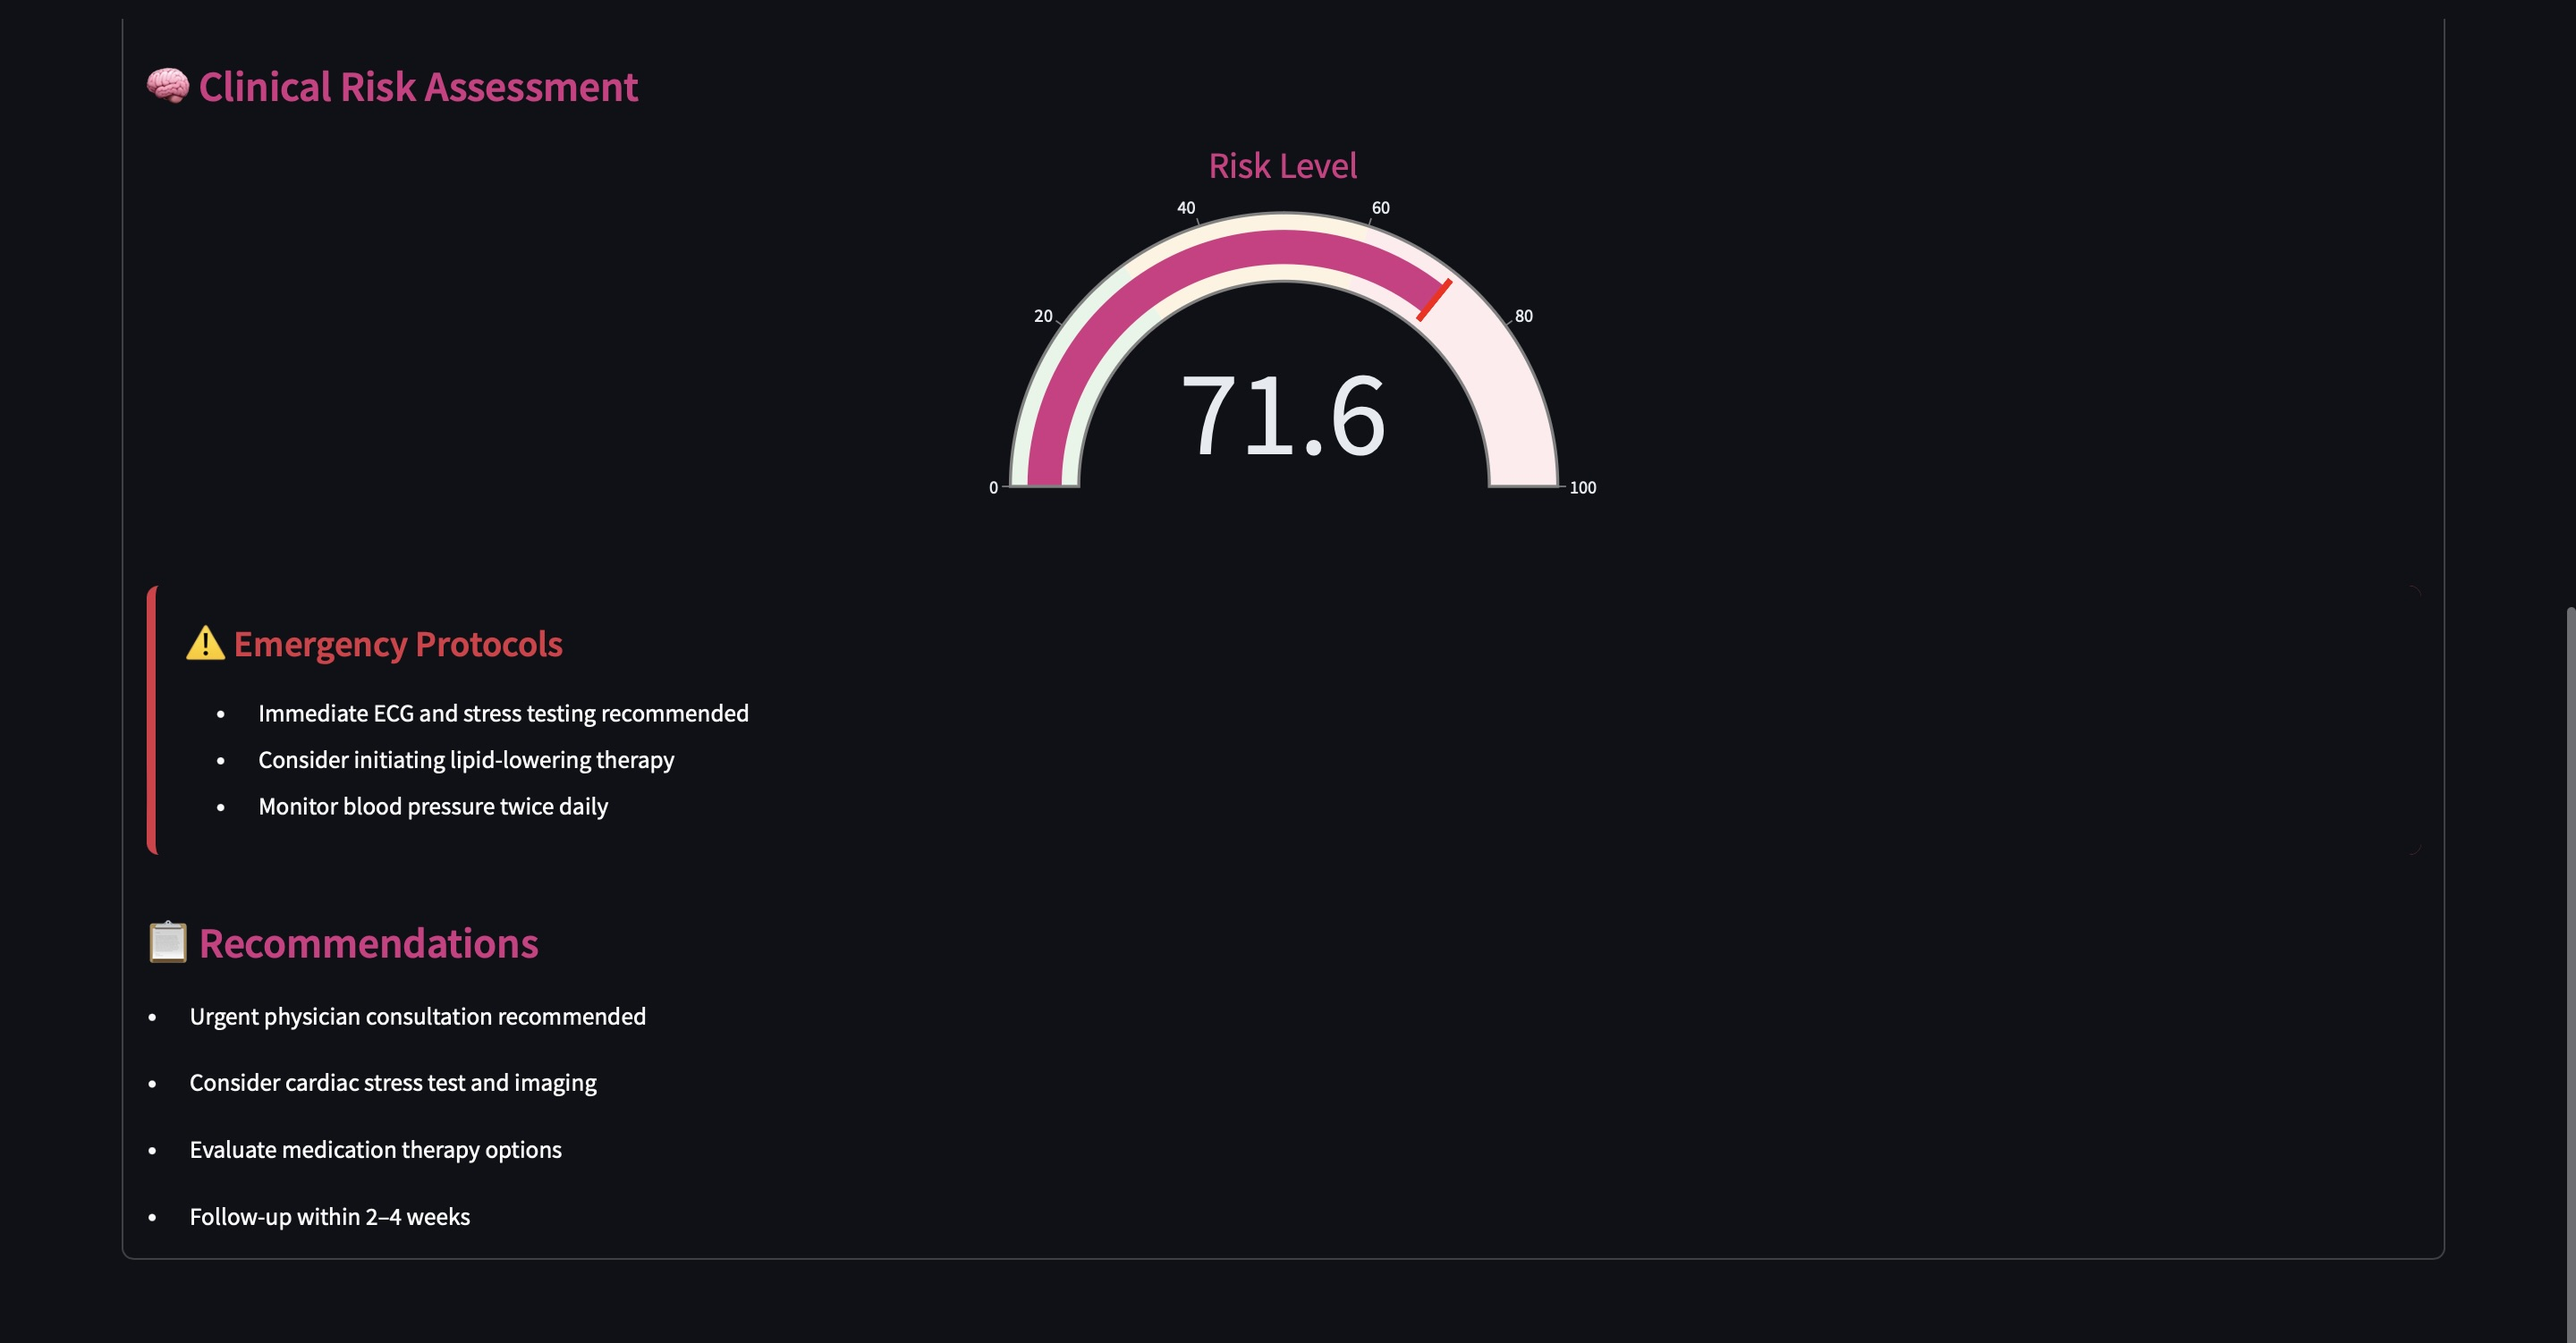
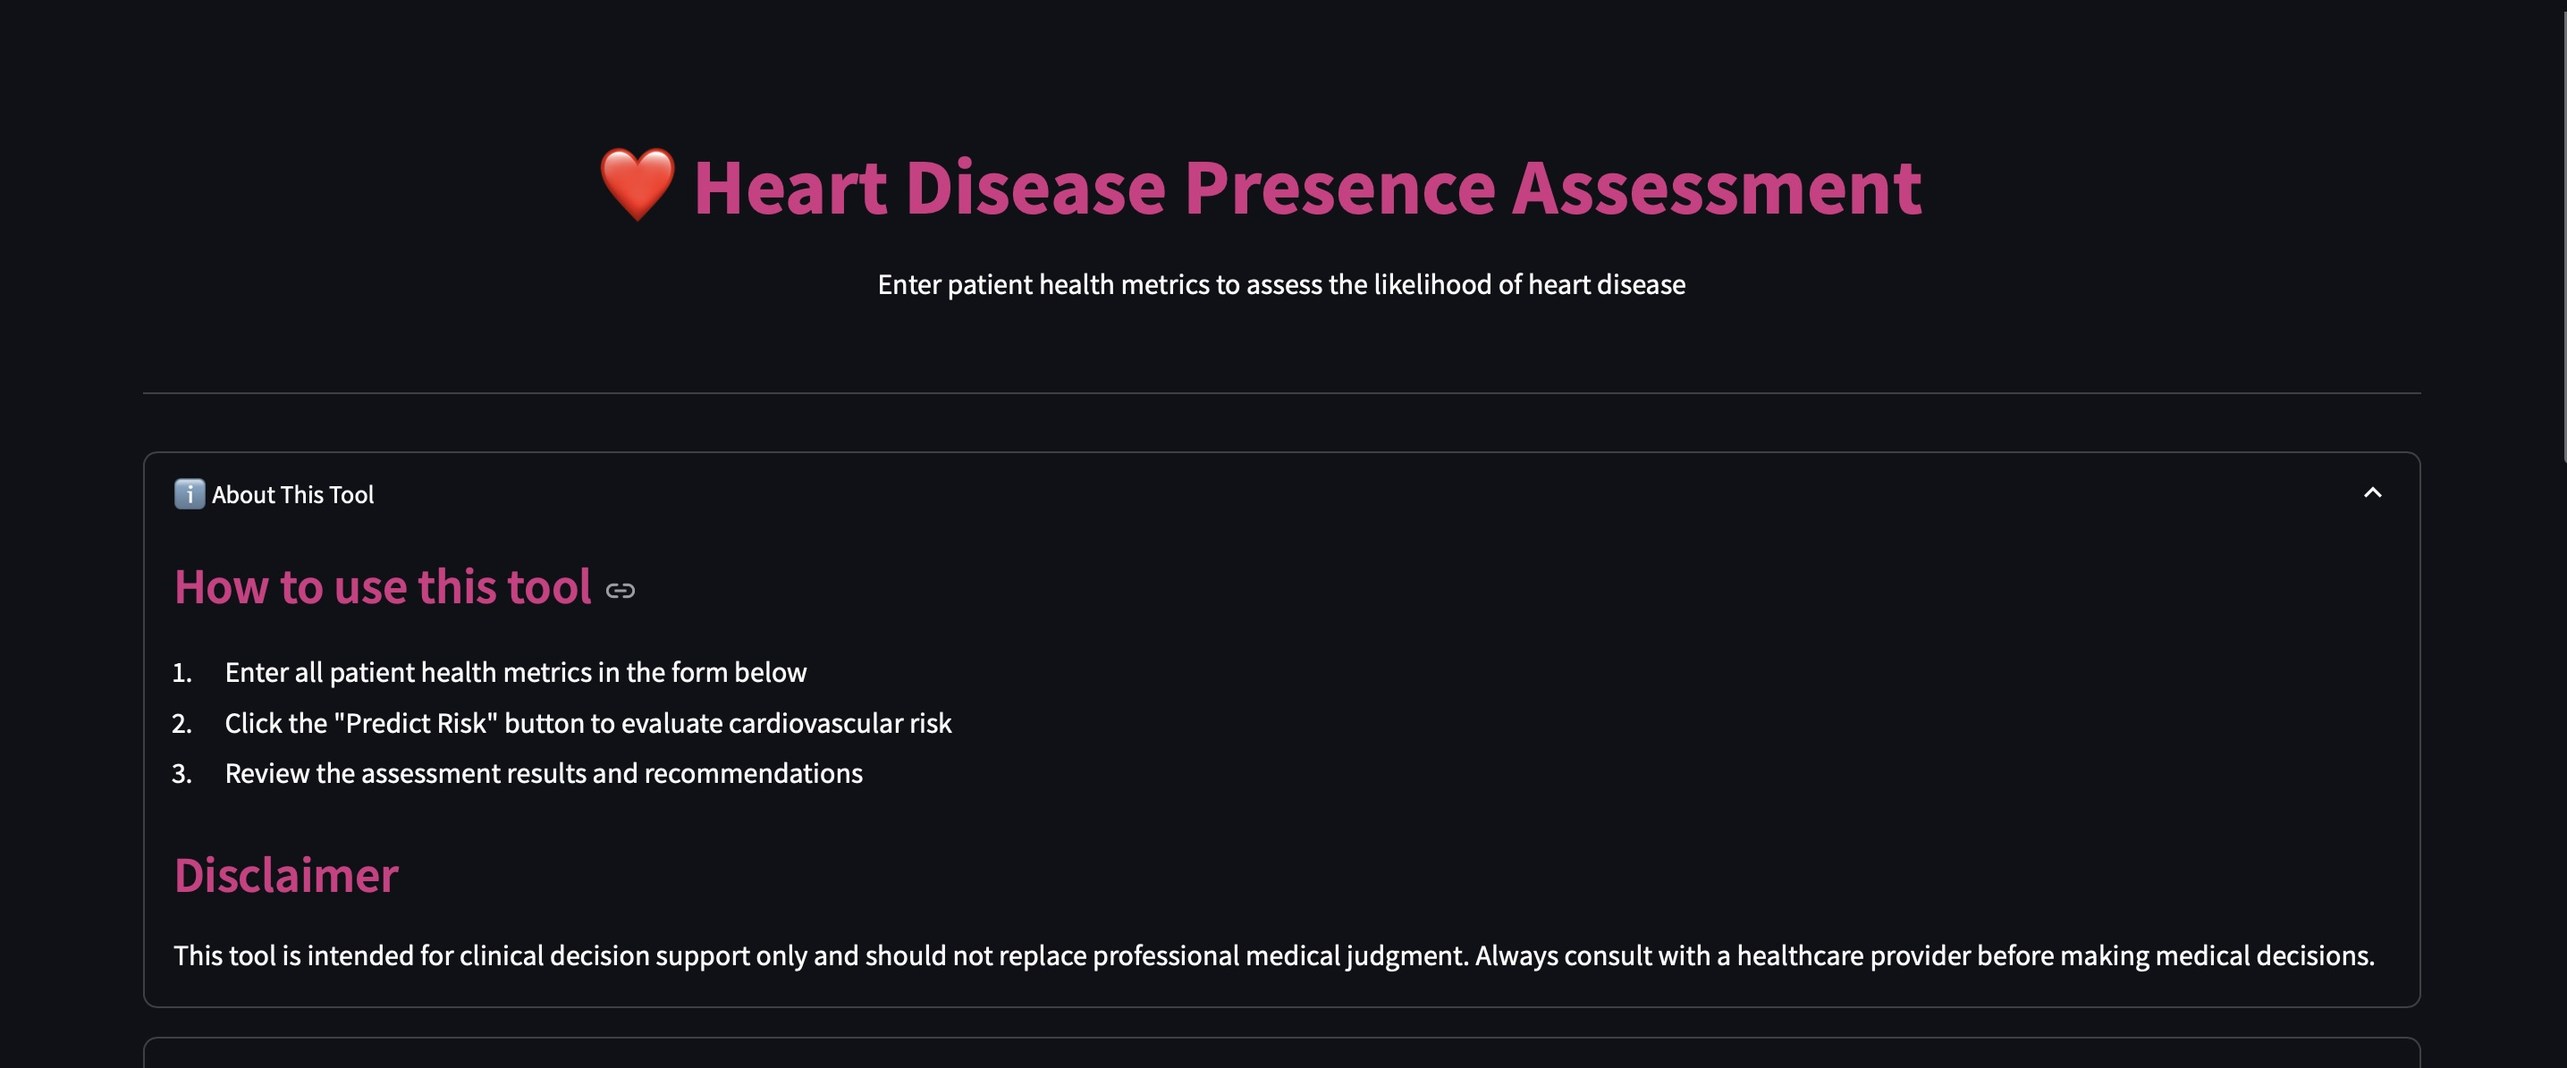
Updates in readme and app.py

diff --git a/app.py b/app.py
@@ -26,9 +26,9 @@ model = load_model()
 
 # --- UI Design ---
 def main():
-    st.markdown("<h1 style='text-align: center; color: #d63384;'>❤ Heart Disease Risk Assessment</h1>",
+    st.markdown("<h1 style='text-align: center; color: #d63384;'>❤ Heart Disease Presence Assessment</h1>",
                 unsafe_allow_html=True)
-    st.markdown("<p style='text-align: center;'>Enter patient health metrics to assess cardiovascular risk</p>",
+    st.markdown("<p style='text-align: center;'>Enter patient health metrics to assess the likelihood of heart disease</p>",
                 unsafe_allow_html=True)
     st.markdown("---")
 
@@ -113,7 +113,7 @@ def create_gauge_chart(probability):
         mode="gauge+number",
         value=probability * 100,
         domain={'x': [0, 1], 'y': [0, 1]},
-        title={'text': "Risk Level", 'font': {'size': 24, 'color': PRIMARY_COLOR}},
+        title={'text': "Prediction Probability", 'font': {'size': 24, 'color': PRIMARY_COLOR}},
         gauge={
             'axis': {'range': [None, 100], 'tickwidth': 1, 'tickcolor': "gray"},
             'bar': {'color': PRIMARY_COLOR},
@@ -142,7 +142,7 @@ def create_gauge_chart(probability):
 
 
 def display_results(probability):
-    st.markdown("### 🧠 Clinical Risk Assessment")
+    st.markdown("### 🧠 Prediction Results")
 
     create_gauge_chart(probability)
 

diff --git a/README.md b/README.md
@@ -2,7 +2,7 @@
 
 ## 📌 Overview
 
-This project leverages machine learning techniques to predict whether an individual is likely to develop heart disease based on various clinical and demographic attributes.
+This project applies machine learning algorithms to predict the presence of heart disease in individuals using clinical and demographic data. The primary goal is to provide a reliable tool for early identification of at-risk patients, aiding clinical decision-making.
 
 Dataset used: **[Heart Disease Dataset on Kaggle](https://www.kaggle.com/datasets/johnsmith88/heart-disease-dataset/data)**  
 Includes features like age, sex, chest pain type, blood pressure, cholesterol levels, and ECG results.
@@ -51,7 +51,7 @@ The following models have been implemented and evaluated:
 
 
 ### Model Used:
-- ✅ Random Forest Classifier (primary)
+- Random Forest Classifier (primary)
 
 ### Workflow:
 1. **Data Preprocessing**
@@ -152,12 +152,14 @@ Visit the running Streamlit app to:
 ---
 
 ## 🖼 Screenshots
+### HOW TO USE APP
+![Input Form](images/streamlit-app-screenshot-1.jpeg)
 
 ### User Input Form
 ![Input Form](images/streamlit-app-screenshot-2.jpeg)
 
 ### Prediction Output  
-![Prediction Result](images/streamlit-app-screenshot-1.jpeg)
+![Prediction Result](images/streamlit-app-screenshot-3.jpeg)
 
 
 ## 🔧 Tech Stack
